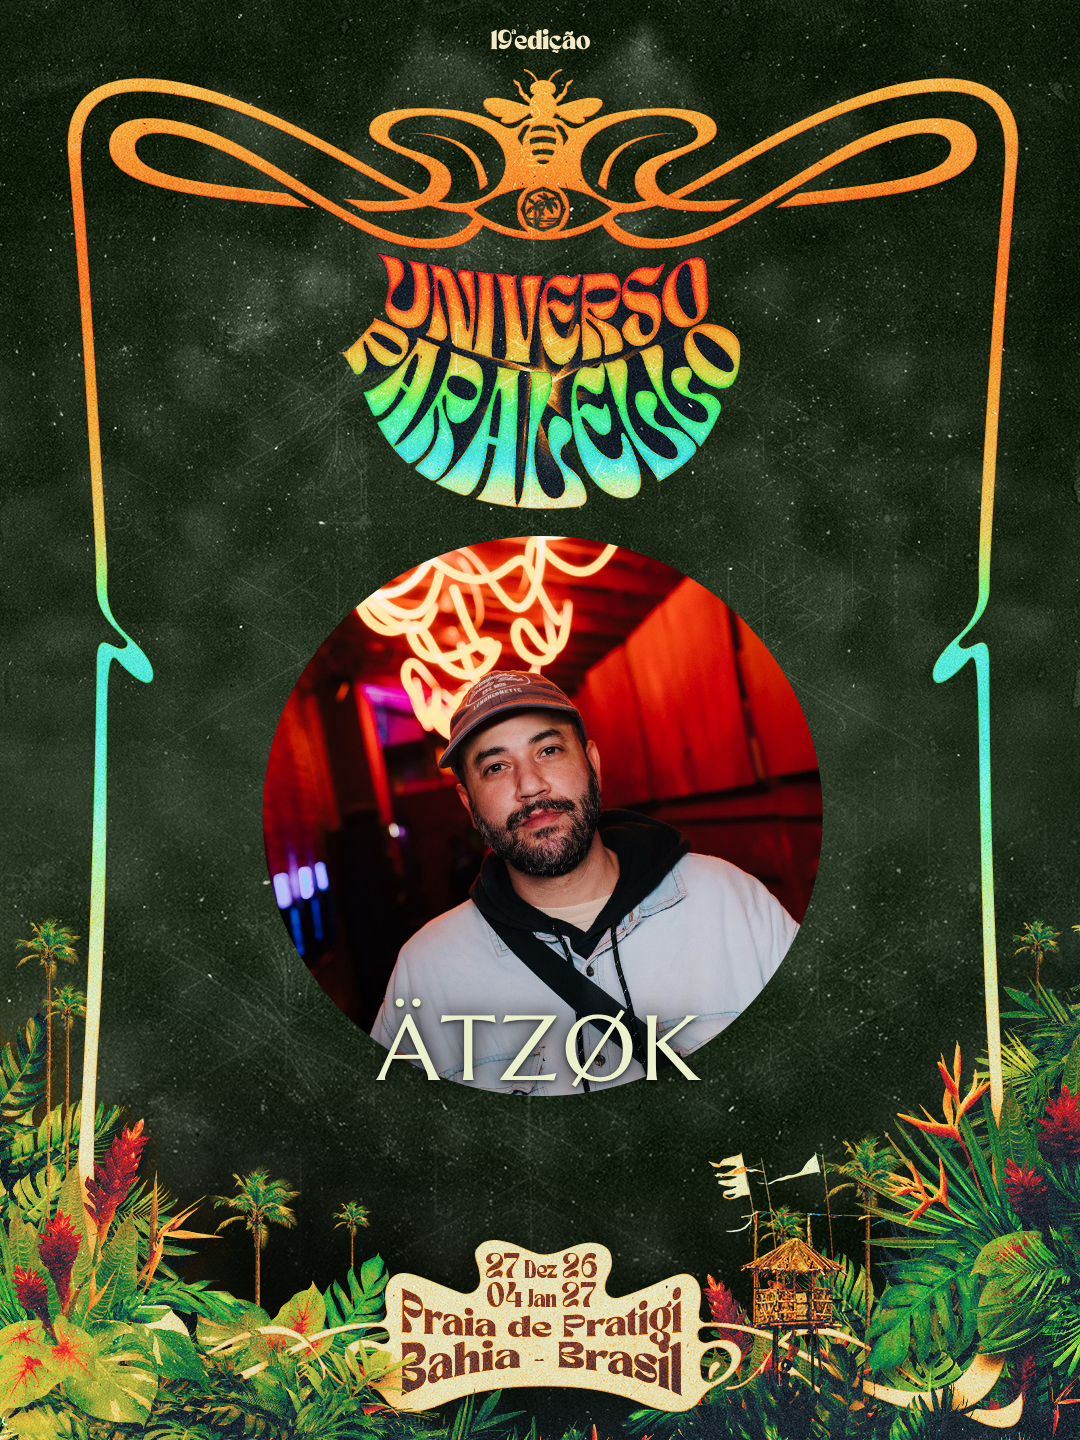
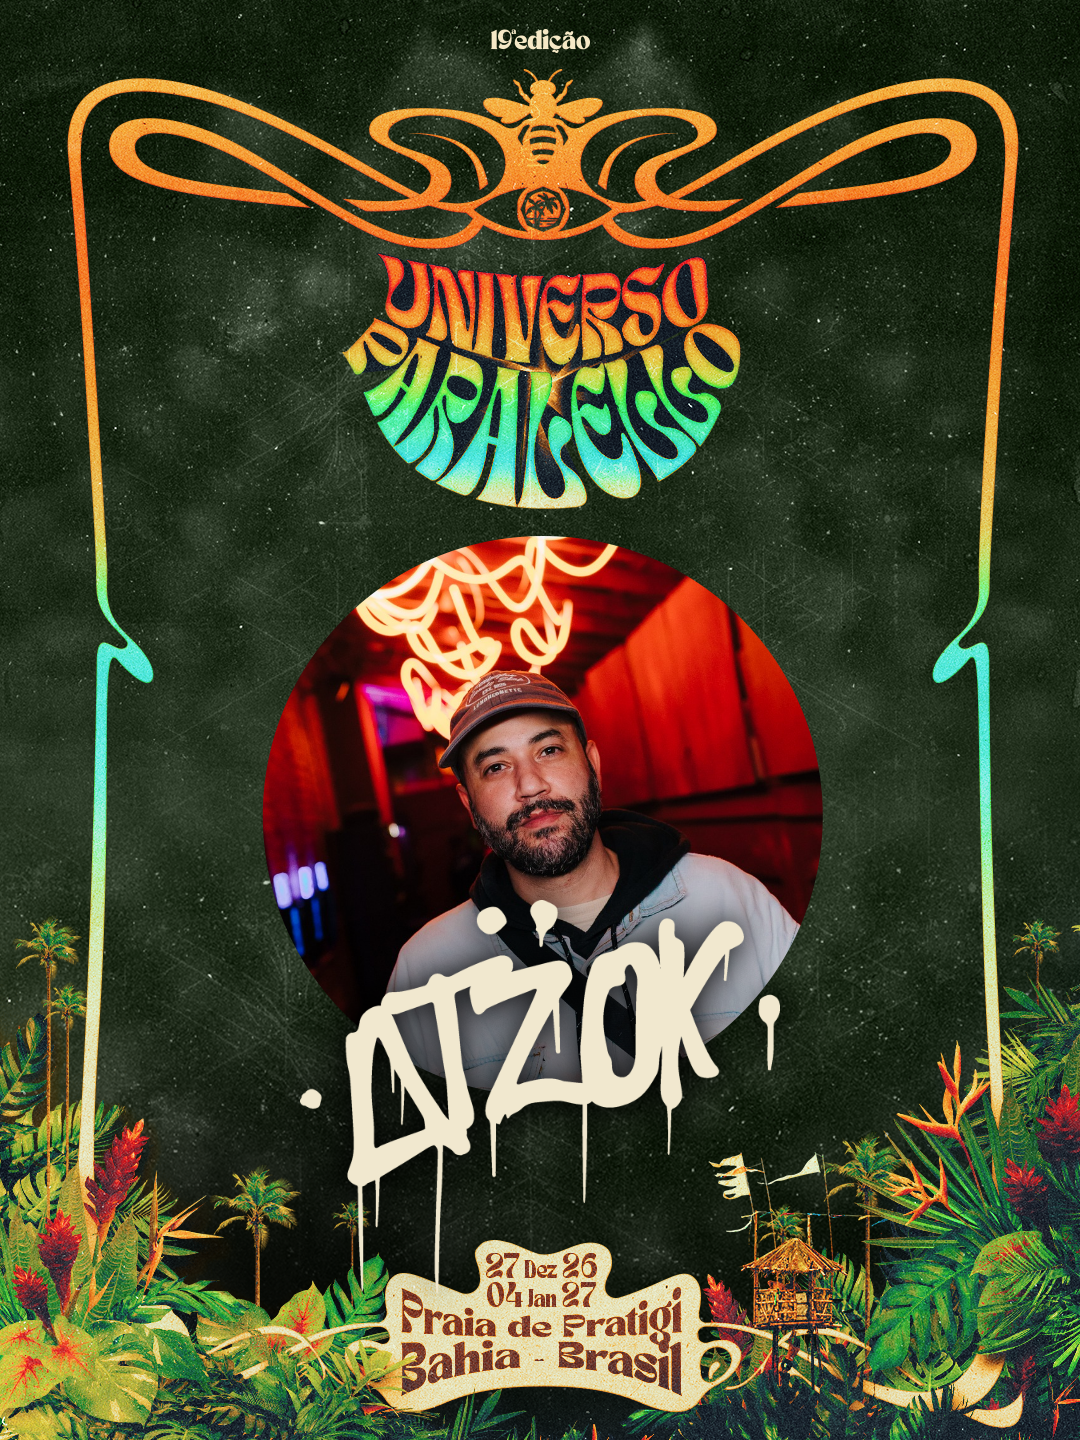
UP art: use Ätzøk wordmark instead of typed name
Claude-Session: https://claude.ai/code/session_013CTnqBsiEKZUSmWLJs7EWV

Changed region(s): [[0.275, 0.5938, 0.7333, 0.875]]

diff --git a/posts/up-atracoes/arte.html b/posts/up-atracoes/arte.html
@@ -12,6 +12,9 @@
   .moldura { position: absolute; left: 0; top: 0; width: 100%; height: 100%; }
   .nome { position: absolute; left: 0; right: 0; text-align: center; font-family: "Marcellus SC"; color: #ecf1cd; letter-spacing: 0.04em;
     text-shadow: 0 0 18px rgba(0,0,0,0.85), 0 0 36px rgba(0,0,0,0.6), 0 2px 4px rgba(0,0,0,0.6); }
+  .logo { position: absolute; filter: drop-shadow(0 0 14px rgba(0,0,0,0.85)) drop-shadow(0 0 30px rgba(0,0,0,0.6)); }
+  #feed .logo { left: 300px; top: 900px; width: 480px; }
+  #story .logo { left: 300px; top: 1130px; width: 480px; }
   #feed { width: 1080px; height: 1440px; }
   #feed .foto { left: 259px; top: 532px; width: 568px; height: 568px; }
   #feed .nome { top: 990px; font-size: 92px; }
@@ -24,12 +27,12 @@
   <section class="arte" id="feed">
     <img class="foto" src="foto-circulo.jpg" alt="Ätzøk" />
     <img class="moldura" src="feed-v2.png" alt="" />
-    <div class="nome">ÄTZØK</div>
+    <img class="logo" src="logo-creme.png" alt="Ätzøk" />
   </section>
   <section class="arte" id="story">
     <img class="foto" src="foto-circulo.jpg" alt="Ätzøk" />
     <img class="moldura" src="story-v2.png" alt="" />
-    <div class="nome">ÄTZØK</div>
+    <img class="logo" src="logo-creme.png" alt="Ätzøk" />
   </section>
 </body>
 </html>

diff --git a/docs/ATZOK.md b/docs/ATZOK.md
@@ -245,3 +245,4 @@ Estilo aprovado para posts (v2): foto real, cards brancos, caixa alta condensada
 - PS1 v1 achada horrível. v2 redesenhada (skill impeccable): a foto inteira do Caio em PS1 (180×320 px, 48 cores, 15-bit) vira o cenário e o herói; menos caixas; nome grande em Barlow Condensed 700, dados em Silkscreen (fonte pixel); BPM/drop/duração; um painel único com 10 stats em 2 colunas e blocos quadrados vermelho→verde; botões desenhados em SVG; scanlines. `posts/ps1/previa-v2.html`. Sem vídeo ainda.
 - Ideia PS1 / menu de stats: v2 também reprovada ("ruim demais, esquece"). Arquivada, não retomar sem pedido. Fica o personagem PS1 do Caio (`posts/ps1/caio-ps1.png`) caso queira usar em outra coisa.
 - Artes individuais oficiais do Universo Paralelo (templates da produção, pasta do Drive de gaiaart0, PSD + PNG feed 1080×1440 e story 1080×1920): foto no círculo + nome embaixo. Feitas em `posts/up-atracoes/` com a foto do neon vermelho e "ÄTZØK" em Marcellus SC (a fonte do template é ReimbrandtDEMO, não disponível aqui). Arquivos: atzok-up-feed.png e atzok-up-story.png.
+- Artes do UP: nome trocado pelo wordmark do Ätzøk em creme com sombra (referência: arte do Vucsetics no Tropikalien Stage, que usa o logo do artista no lugar do nome).
